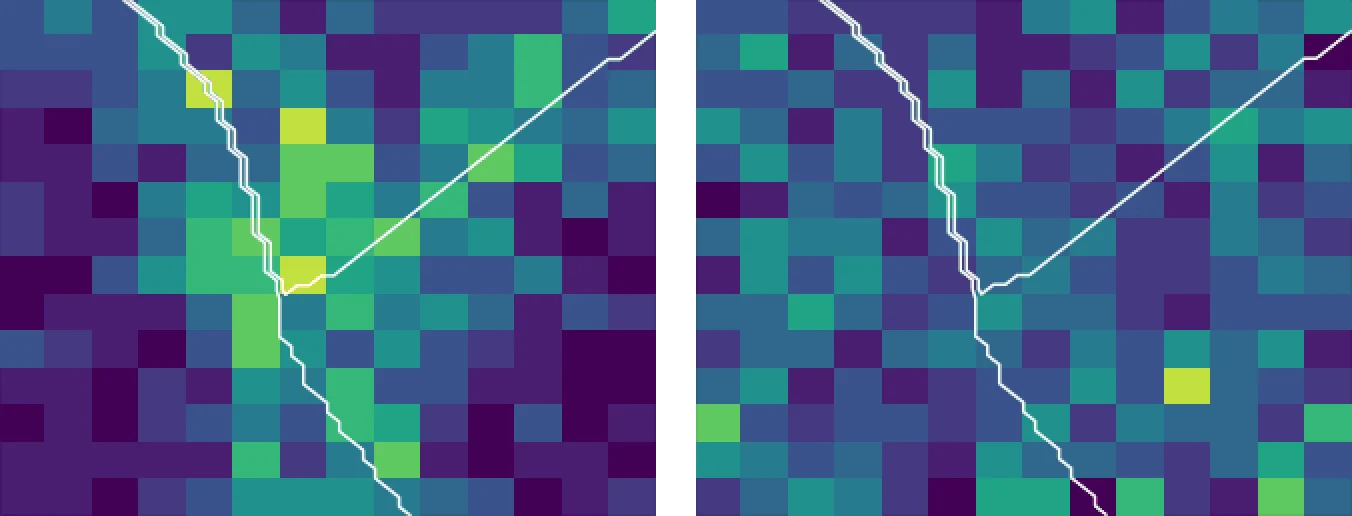
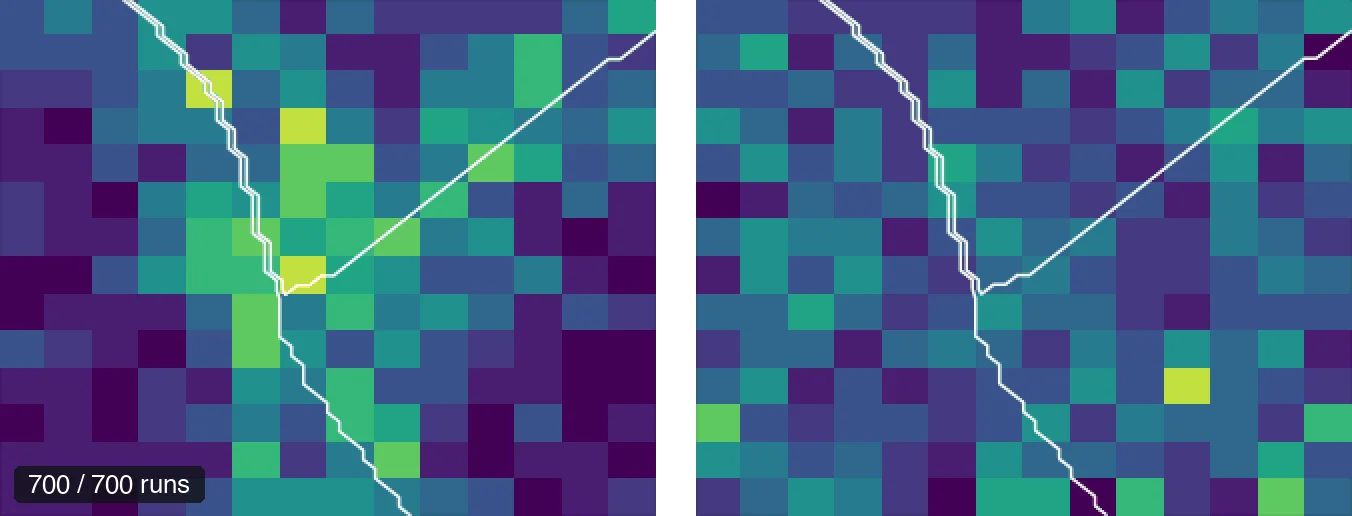
Start the CONE animation at the adaptive phase and show runs used
The first 16 frames were initialisation and uniform warm-up: with so few
runs the colour scale saturated into flat blocks that looked like a broken
image. The loop now starts at run 142, each frame carries a runs counter,
and the image URLs are versioned so cached copies are replaced.

Changed region(s): [[0.0, 0.8992, 0.1553, 0.9922]]

diff --git a/index.html b/index.html
@@ -81,8 +81,8 @@
         <p>When the best decision depends on context, most contexts are easy: one option clearly wins. CONE locates the boundaries between decisions and spends its simulation runs there, instead of spreading them evenly.</p>
         <figure class="cone">
           <div class="cone-labels" aria-hidden="true"><span>CONE</span><span>Uniform sampling</span></div>
-          <button class="cone-play" type="button" aria-pressed="false" data-anim="cone-budget.webp" data-poster="cone-budget-poster.webp" aria-label="Play or stop the animation of how each method spends 700 simulation runs">
-            <img src="cone-budget-poster.webp" width="1352" height="516" loading="lazy" decoding="async"
+          <button class="cone-play" type="button" aria-pressed="false" data-anim="cone-budget.webp?v=2" data-poster="cone-budget-poster.webp?v=2" aria-label="Play or stop the animation of how each method spends 700 simulation runs">
+            <img src="cone-budget-poster.webp?v=2" width="1352" height="516" loading="lazy" decoding="async"
                  alt="Two heatmaps of simulation runs per cell over a two-dimensional context space. On the left, CONE's runs concentrate along the white boundary lines between optimal decisions. On the right, uniform sampling spreads runs evenly with no relation to the boundaries.">
             <span class="cone-badge">▶&#8194;Play the 700 runs</span>
           </button>
